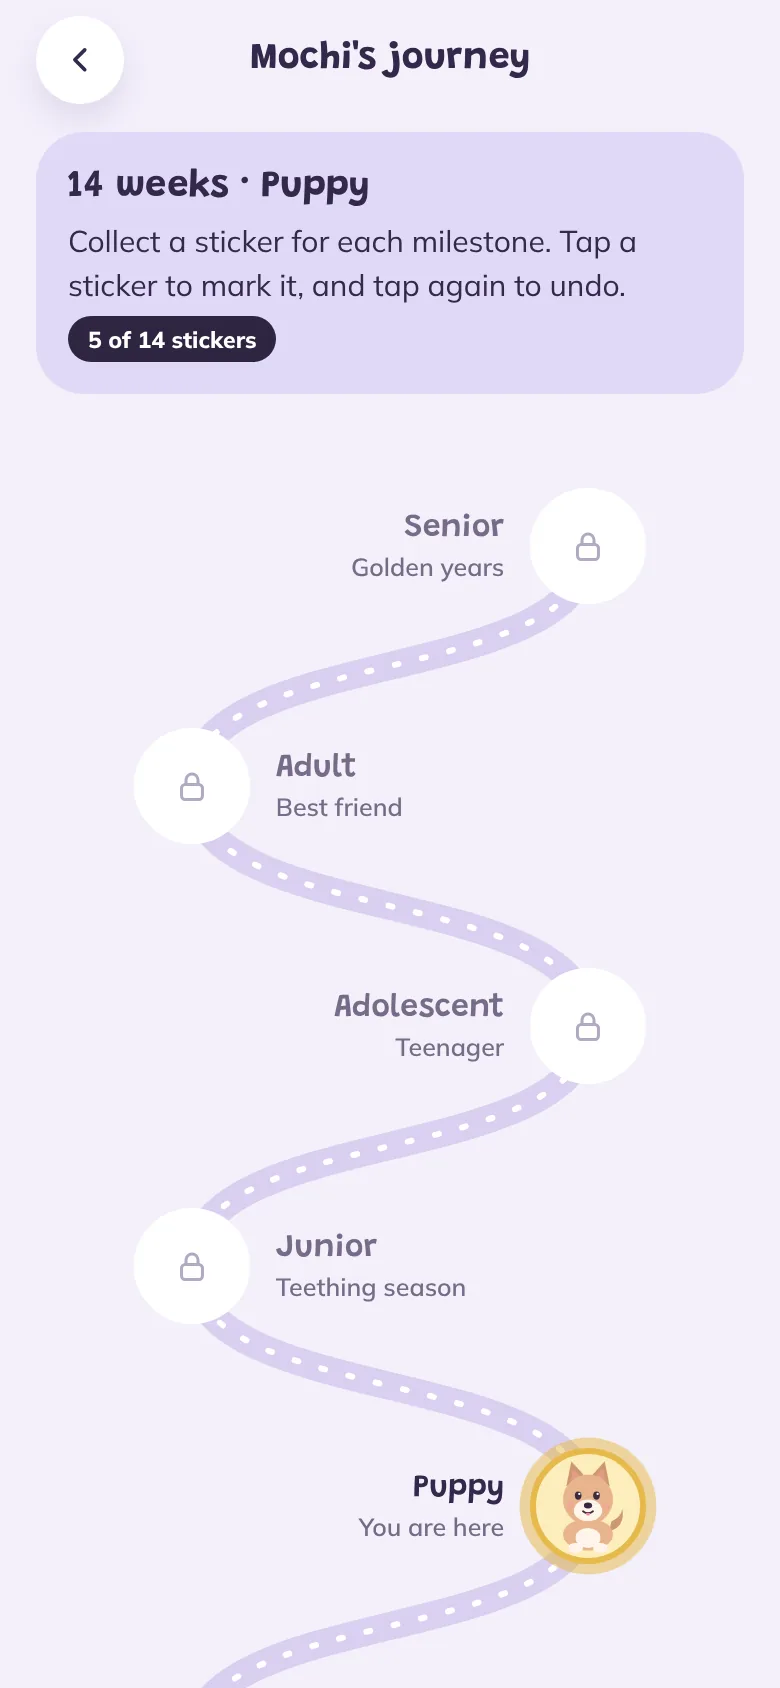
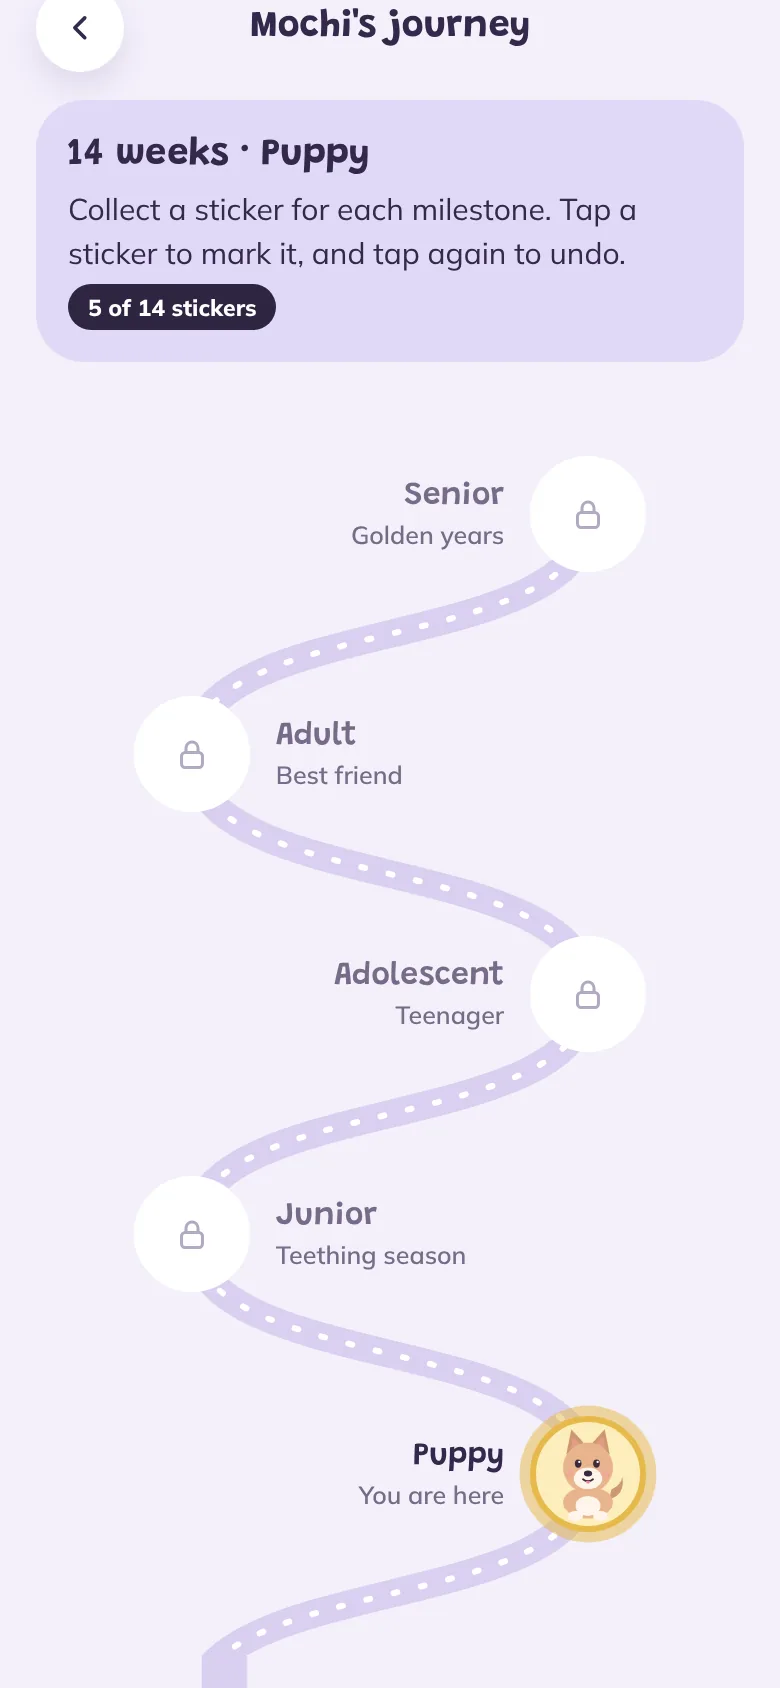
Even out the gap under the status bar in website phone mockups
Trims each app screenshot to the same small top margin and aligns it
just under the camera notch.

Claude-Session: https://claude.ai/code/session_01F1TpcD6tGmRA3KSuTKHft4

Changed region(s): [[0.2154, 0.2773, 0.8615, 1.0], [0.0308, 0.0, 0.8308, 0.2156], [0.7385, 0.5853, 0.7692, 0.6161]]

diff --git a/website/index.html b/website/index.html
@@ -108,11 +108,11 @@ header.top.scrolled{border-color:var(--line)}
 @keyframes drift{50%{transform:translate(12px,-16px)}}
 
 /* phone */
-.phone{position:relative;width:min(286px,72vw);aspect-ratio:390/873;border-radius:16% / 7.2%;background:var(--bezel);padding:10px;box-shadow:0 40px 70px -30px rgba(40,25,80,.55),inset 0 0 0 2px #3a3248;max-width:100%}
+.phone{position:relative;width:min(286px,72vw);aspect-ratio:390/882;border-radius:16% / 7.2%;background:var(--bezel);padding:10px;box-shadow:0 40px 70px -30px rgba(40,25,80,.55),inset 0 0 0 2px #3a3248;max-width:100%}
 .phone .screen{position:relative;width:100%;height:100%;border-radius:13.5% / 6%;overflow:hidden;background:#F4F0FB;container-type:inline-size}
 /* A status bar strip sits above each app screen, so the camera notch never covers the app's header. */
-.phone .screen::before{content:"9:41";position:absolute;top:0;left:0;right:0;height:4.4%;display:flex;align-items:center;padding-left:13%;font:800 4.3cqw/1 var(--body);color:#33284A;z-index:1}
-.phone .screen::after{content:"";position:absolute;top:1.55%;right:12%;width:7.5cqw;aspect-ratio:2/1;border:max(1px,.5cqw) solid #33284A;border-radius:1.2cqw;box-shadow:inset 0 0 0 max(1px,.5cqw) #F4F0FB,inset 0 0 0 10px #33284A;opacity:.85;z-index:1}
+.phone .screen::before{content:"9:41";position:absolute;top:0;left:0;right:0;height:4.3%;display:flex;align-items:center;padding-left:13%;font:800 4.3cqw/1 var(--body);color:#33284A;z-index:1}
+.phone .screen::after{content:"";position:absolute;top:1.45%;right:12%;width:7.5cqw;aspect-ratio:2/1;border:max(1px,.5cqw) solid #33284A;border-radius:1.2cqw;box-shadow:inset 0 0 0 max(1px,.5cqw) #F4F0FB,inset 0 0 0 10px #33284A;opacity:.85;z-index:1}
 .phone .screen img{position:absolute;left:0;right:0;bottom:0;top:auto;width:100%;height:auto;opacity:0;transition:opacity .6s ease,transform .8s cubic-bezier(.2,.8,.2,1);transform:scale(1.04)}
 .phone .screen img.on{opacity:1;transform:none}
 .phone .notch{position:absolute;top:2.1%;left:50%;transform:translateX(-50%);width:26%;aspect-ratio:84/24;border-radius:999px;background:var(--bezel);z-index:2}
